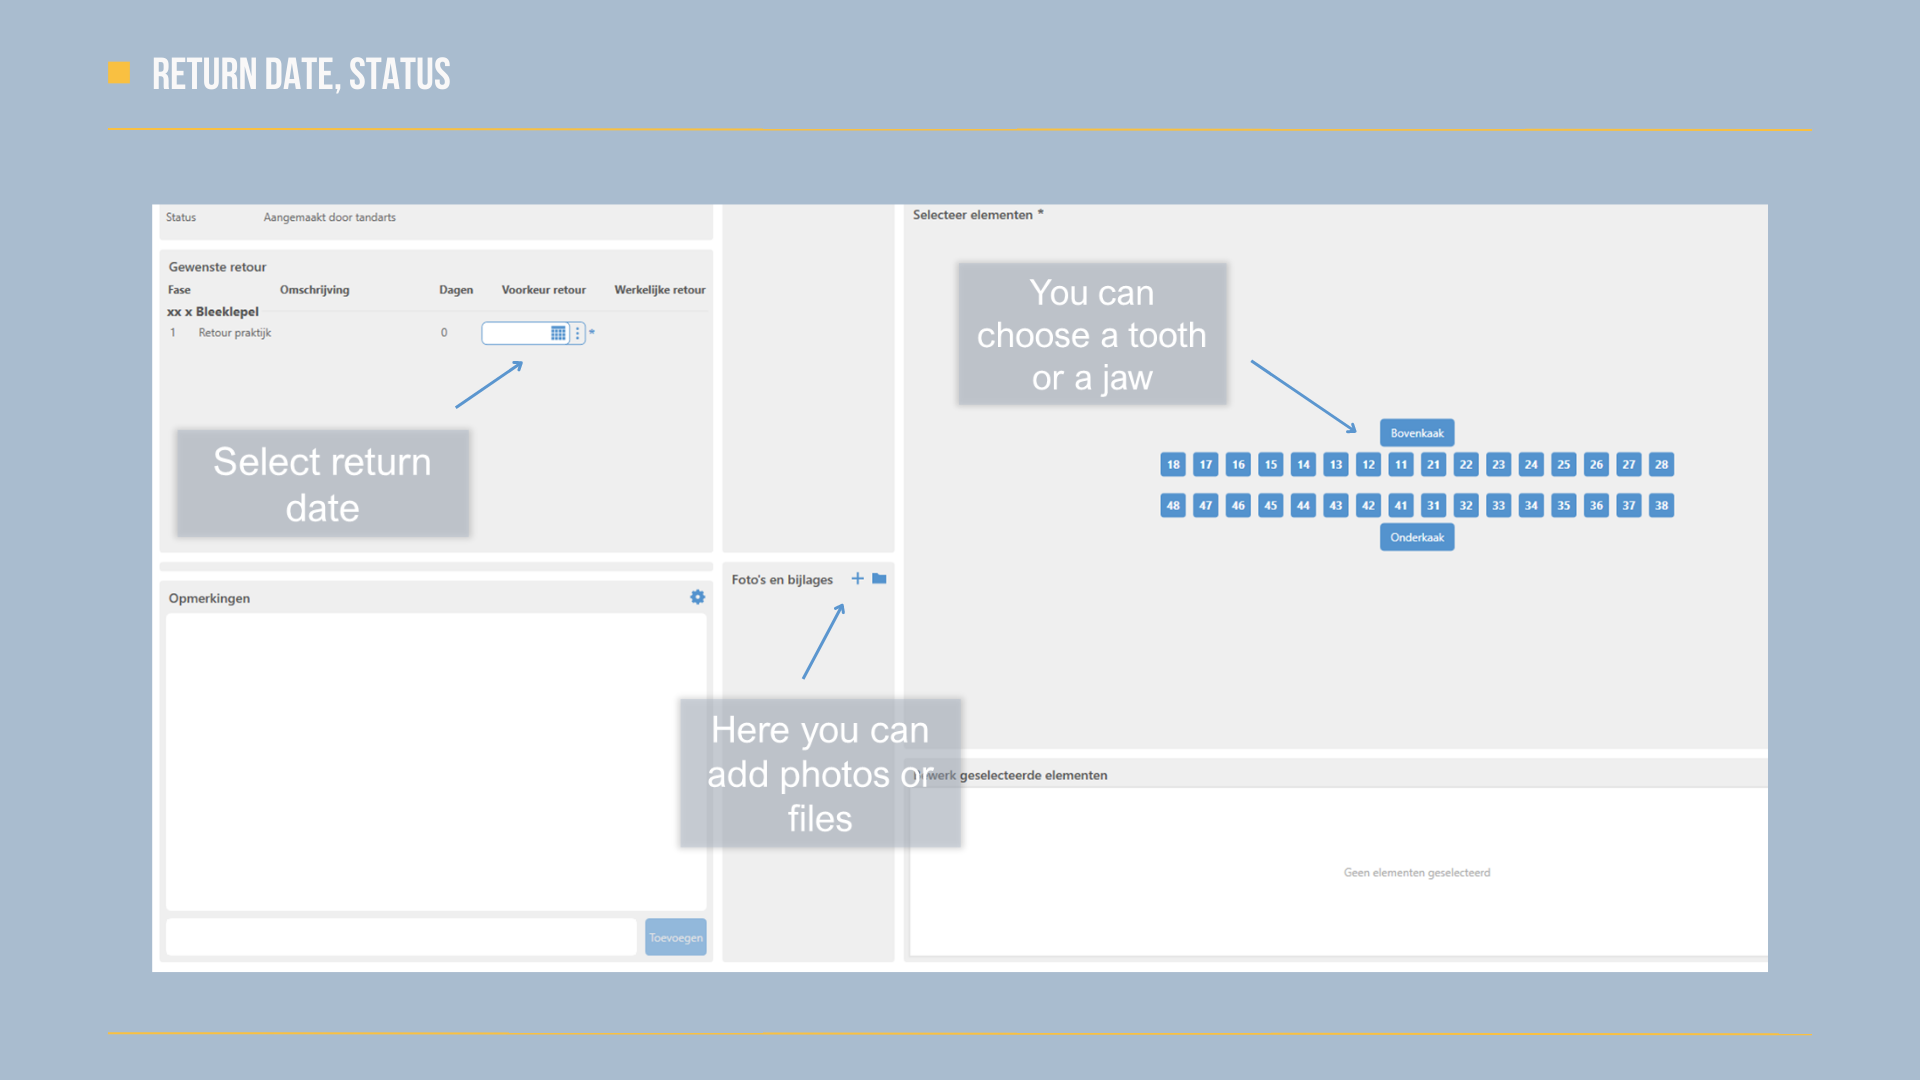
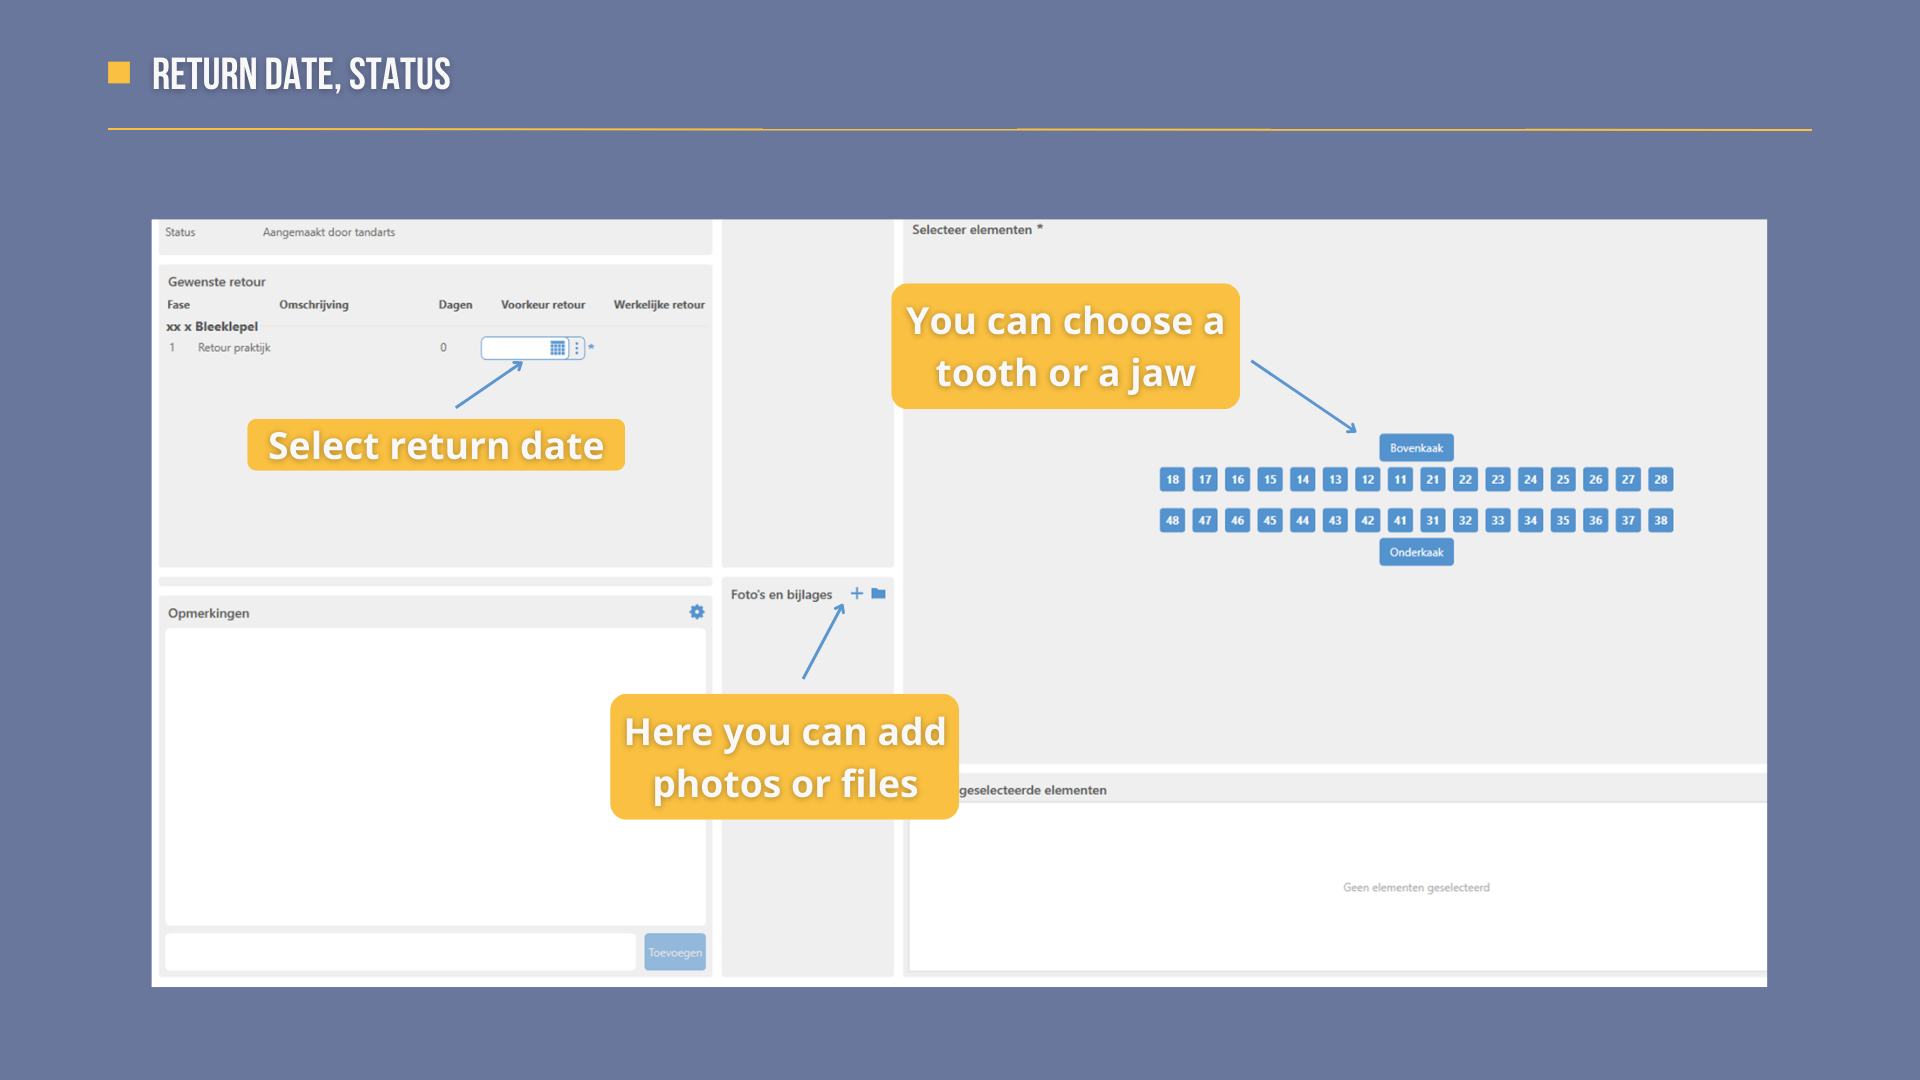
update weborder and codes menu

diff --git a/ret_sp_bleach.css b/ret_sp_bleach.css
@@ -26,7 +26,7 @@ body {
     margin: 30px auto;
     width: 90%;
     /* border-radius: 5px; */
-    background-color: rgba(119,141,174, 1);
+    background-color: #6A779D;
 
 }
 
